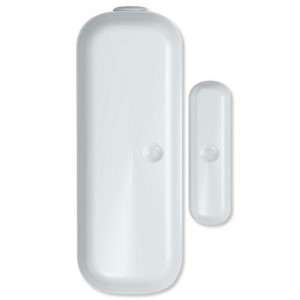
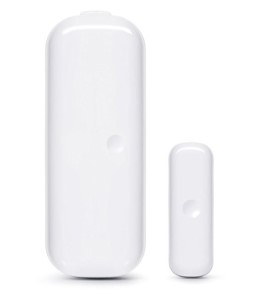
Update item48

Changed region(s): [[0.1471, 0.0, 0.7941, 0.99], [0.4412, 0.48, 0.4706, 0.51]]

diff --git a/docs/_static/src/door_sensor/item48_aeon_door_sensor_gen5.rst b/docs/_static/src/door_sensor/item48_aeon_door_sensor_gen5.rst
@@ -1,0 +1,118 @@
+Aeon Labs Z-Wave ZW120 Door/Window Sensor, Gen5
+--------------------------------
+
+	.. image:: ../../images/door_sensor/aeon_door_window.jpg
+	.. :align: left
+
+Product Description
+~~~~~~~~~~~~~~~~~~~
+	#. Simple DIY installation with screws or by double sided tape 
+	#. Triggers intelligence and security Related events 
+	#. Hidden security tamper detection technology 
+
+Working with PhD
+~~~~~~~~~~~~~~~~~~~~~~~~~~~~~~~~~~~
+	#. Be monitored by PhD via the Zinno app available on iOS&Android
+	#. The Speaker on Phd will annouce when receive the alert from the Aeon Labs Door/Window Sensor
+	#. Associate Aeon Labs Door/Window Sensor with other smart devices in Zinno App, and set them turn on or off if the sensor detects doors or windows have been open
+
+Add Aeon Labs Door/Window Sensor to PhD's network
+~~~~~~~~~~~~~~~~~~~~~~~
+	#. On Zinno App, go to Menu → Devices → Tap "+" button to put PhD to inclusion mode
+	#. Press the Action button once
+	#. Wait for PhD completes inclusion/exclusion process
+	
+	.. image:: ../../images/door_sensor/aeon_door_window_d.jpg
+	.. :align: left
+
+Specification
+~~~~~~~~~~~~~~~~~~~~~~
+	- Model number: 				ZW120
+	- Power source: 				Battery
+	- Protocol: 					Z-Wave
+	- Battery type: 				2xAAA 
+	- Dimension:					2.9 x 0.8 x 1.1 inches
+	- Weight:						0.13 lb
+	- Color: 						White
+	
+.. Wake up information
+.. ~~~~~~~~~~~~~~~~~~~~~
+	- D/W sensor will keep wake up for 8 seconds after it send wake up notification command. 
+	- If it receive a command,it will keep wake up for 8 seconds to wait next command.
+	- Press tamper switch 3 times, then D/W sensor will wake 10 minutes.
+	- If configured, d/w sensor will wake 10 minutes too when power on.
+	- Only 3 ways can abort this status:
+		- Pressing tamper switch 3 times, sleep right now;
+		- D/W sensor received “Wake up no more information CC”, sleep right now;
+		- Received other command, wake 8 seconds to wait next command.
+
+.. LED indicator
+.. ~~~~~~~~~~~~~~~~~~
+	- ON: In network
+	- OFF: Sleeping
+	- Blink: Out of network
+
+.. Button actions
+.. ~~~~~~~~~~~~~~~~~~
+	#. Press Action button once: 
+		1. Send node info frame without security CC in node info list.
+		2. Put device to Inclusion/Exclusion mode
+	#. Press Action button twice with 1 second:
+		1. Send node info frame with security CC in node info list.
+		2. Put device to Inclusion/Exclusion mode
+	#. Press and hold the Action Button for 3 seconds and then released
+		Toggle on/off 10 minutes wake-up state
+	#. Press and hold Action bitton for 20 seconds then release:
+		Reset Door Window Sensor to Factory Default
+		
+
+.. Configuration description
+.. ~~~~~~~~~~~~~~~~~~~~~~~~~~
+
+	#. Parameter 1: To set which value of the Sensor Binary Report will be sent when the door is Opened/Closed.
+		- Paramter: 1 (0x01)
+		- Size: 1 byte
+		- Value: 
+			1, Value=0, Close=Sensor Binary Report 0xFF,Open=Sensor Binary Report 0x00.
+			2, Value=1, Close= Sensor Binary Report 0x00, Open=Sensor Binary Report 0xFF.
+		- Default: 1
+	
+	#. Parameter 2: Enable/disable wake-up 10 minutes when re-power on the Sensor. 
+		- Paramter: 2 (0x02)
+		- Size: 1 byte
+		- Value: 0=disable, 1=enable
+		- Default: 1
+		
+	#. Parameter 3: To set which value of the Basic Set will be sent when the door is Opened/Closed.
+		- Paramter: 3 (0x03)
+		- Size: 1 byte
+		- Value: 
+			1, Value=0, Close= Basic Set 0xFF, Open=Basic Set 0x00.
+			2, Value=1, Close=Basic Set 0x00, Open= Basic Set 0xFF.
+		- Default: 1
+		
+	#. Parameter 39: Set the low battery value.
+		- Paramter: 39 (0x27)
+		- Size: 1 byte
+		- Value: from 10% to 50% 
+		- Default: 10
+		
+	#. Parameter 111: Set the interval time of battery report.
+		- Paramter: 111 (0x6F)
+		- Size: 4 byte
+		- Value: 
+			Value = 0: disable battery report for an interval time
+			Value=1 to 0x7FFFFFFF, the interval time of battery report.
+			Note:
+				1, if the value is less than 10, the time unit is second. If the value is more than 10, the time unit is 4 minutes, which means if the value is more than 10 and less than 240, the interval time is 4 minutes. If the value is more than 240 and less than 480, the interval is 8 minutes. 2, if the current battery report falls below the low battery value (configurable parameter 39), it will send battery report=0xFF.
+		- Default: 0
+
+	#. Parameter 121: To configure which sensor report will be sent when the Sensor is triggered On/Off.
+		- Paramter: 121 (0x79)
+		- Size: 1 byte
+		- Value: Bit setting
+			1. Bit 8: Basic set
+			2. Bit 4: Sensor binary report
+			3. Others: reserved
+		- Default: 0x00000100
+

diff --git a/docs/_static/src/door_window_sensors.rst b/docs/_static/src/door_window_sensors.rst
@@ -30,6 +30,10 @@ Door/Window sensor devices
 .. toctree:: door_sensor/item47_smartsense_multi_doorWindow_sensor
    :maxdepth: 2
  
+.. toctree:: door_sensor/item48_aeon_door_sensor_gen5.rst
+   :maxdepth: 2
+ 
+ 
 .. toctree:: door_sensor/sensative_strips_door_sensor.rst
    :maxdepth: 2
    
